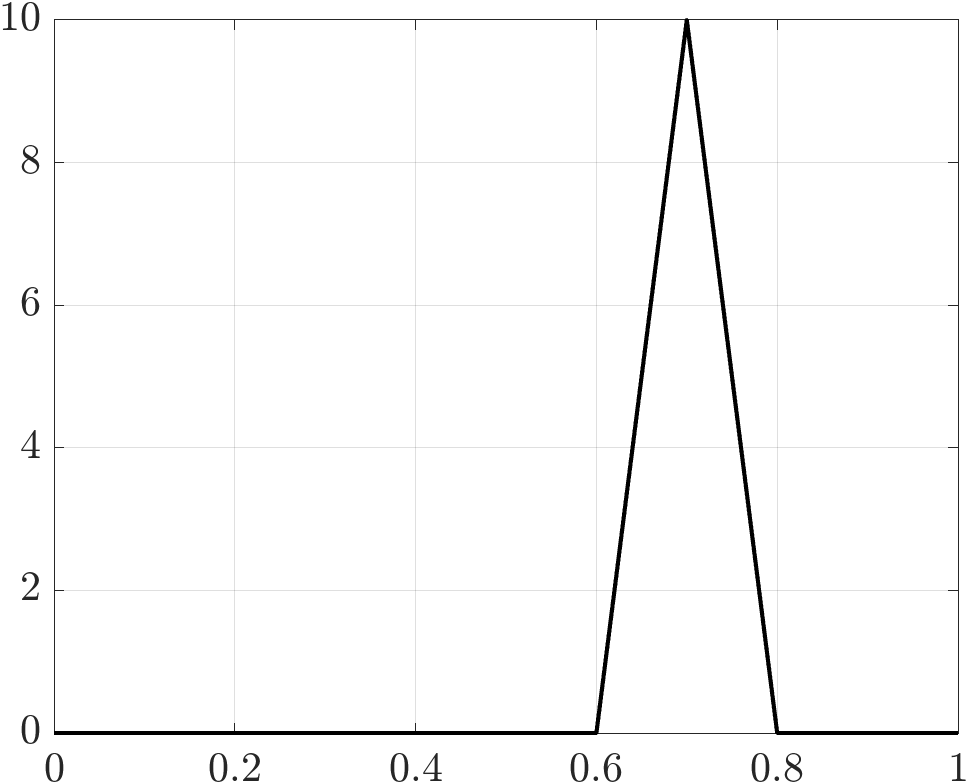
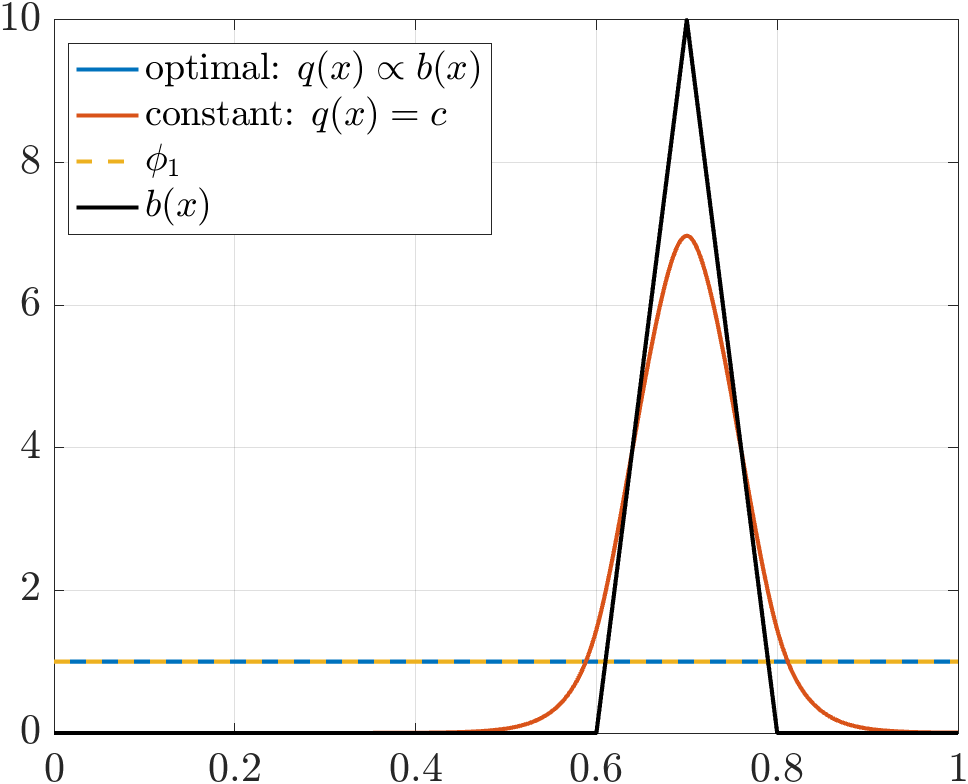
minor updates

diff --git a/learnability.tex b/learnability.tex
@@ -126,7 +126,7 @@ We organize the present study along the following directions:
 \begin{itemize}
 \item \textbf{Informativeness of the model}: 
 Given a fixed prior, to what extent can we improve the learnability of $m$ by 
-choosing an optimal model $\F$? 
+choosing an optimal model $\F$? -- this is kind of like {\em model selection for OED}
 
 \item \textbf{Learnability of linear prediction functionals}:
 Given 
@@ -613,7 +613,7 @@ with $x_0=0.7$ and $\delta=0.1$. Samples from the prior and the marginal prior s
 \includegraphics[height=0.23\textwidth]{figures/bMeas.png}
 \hfill
 \includegraphics[height=0.23\textwidth]{figures/PostsWQs.png}
-\caption{Prior (left) showing $\pm2$ standard deviations (black) and samples (colours), the averaging observation function $b(x)$ (right), and the resulting marginal posterior standard deviation (right).}\label{fig:P1}
+\caption{Prior (left) showing $\pm2$ standard deviations (black) and samples (colours), the averaging observation function $b(x)$ as well as the effective Riesz representer $g=\B A^{-1}_q$ for the optimal $q=b$ and the constant  $q=c$ (centre), and the resulting marginal posterior standard deviation (right).}\label{fig:P1}
 \end{figure}
 
 
